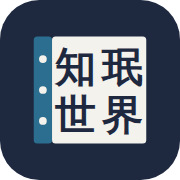
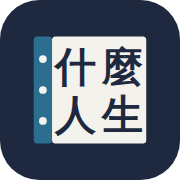
Add files via upload

Changed region(s): [[0.2778, 0.25, 0.8056, 0.7778]]

diff --git a/index.html b/index.html
@@ -3,7 +3,7 @@
 <head>
 <meta charset="UTF-8">
 <meta name="viewport" content="width=device-width, initial-scale=1, viewport-fit=cover">
-<title>和지민一起做記錄</title>
+<title>我這是什麼快樂人生</title>
 <link rel="manifest" href="./manifest.webmanifest">
 <meta name="theme-color" content="#EDF0F3" media="(prefers-color-scheme: light)">
 <meta name="theme-color" content="#151A24" media="(prefers-color-scheme: dark)">
@@ -216,8 +216,8 @@ textarea.in{min-height:110px;resize:vertical}
 <div class="wrap">
   <header class="top">
     <div>
-      <h1>和지민一起做記錄</h1>
-      <div class="sub" id="sub">知珉的美貌，民族的榮耀</div>
+      <h1>我這是什麼快樂人生</h1>
+      <div class="sub" id="sub">柚在看什麼 我也要看嘿嘿</div>
     </div>
     <div class="stat"><b id="total">0</b>筆紀錄<br><button class="btn" id="backup" style="margin-top:6px;padding:4px 10px;font-size:.82rem">備份</button></div>
   </header>
@@ -321,7 +321,7 @@ const store = {
 };
 function loaded(){
   state.ready = true;
-  $('#sub').textContent = '知珉的美貌，民族的榮耀';
+  $('#sub').textContent = '柚在看什麼 我也要看嘿嘿';
   render();
 }
 const init = () => { store.init(); };

diff --git a/sw.js b/sw.js
@@ -1,4 +1,4 @@
-const VERSION = 'v6';
+const VERSION = 'v7';
 const CACHE = 'povlog-' + VERSION;
 const ASSETS = [
   './',
